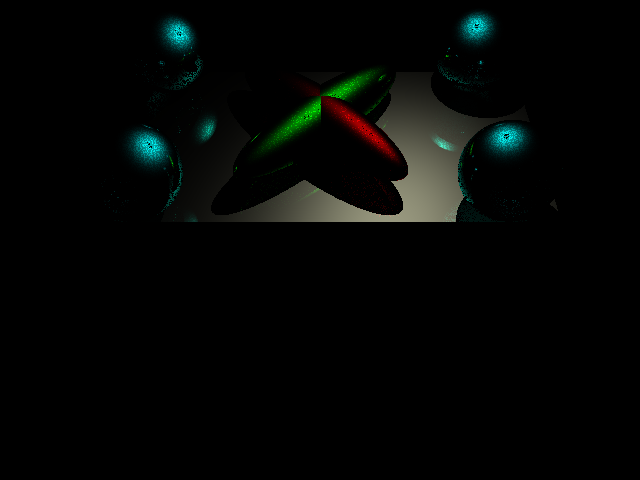
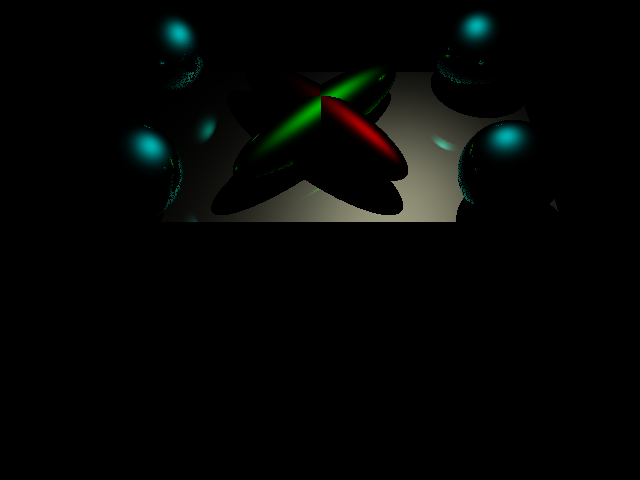
still speccing

diff --git a/main.cpp b/main.cpp
@@ -50,7 +50,7 @@ void init()
 {
     WIDTH = 0;
     HEIGHT = 0;
-    DEPTH = 5;
+    DEPTH = 2;
 
     OBJS = new obj *[MAX_OBJS];
     LIGHTS = new light *[MAX_LIGHTS];
@@ -97,7 +97,7 @@ bool intersecting(ray &r, obj *&hit_obj, vec3 *hit_point)
 
 vec3 trace(ray &r, int depth)
 {
-    if (depth > DEPTH)
+    if (depth >= DEPTH)
     {
         return vec3(0, 0, 0); // black pixel
     }
@@ -135,10 +135,16 @@ vec3 trace(ray &r, int depth)
         }
     }
 
-    vec3 i_n = normalize(hit_obj->interpolateNormal(hit_point));
+    // if (hit_obj->mat.specular.x != 0 &&
+    //     hit_obj->mat.specular.y != 0 &&
+    //     hit_obj->mat.specular.z != 0)
+    // {
+
+    vec3 i_n = glm::normalize(hit_obj->interpolateNormal(hit_point));
     ray r_r = r.reflect(hit_point, i_n);
     vec3 r_col = trace(r_r, depth + 1);
     c = c + hit_obj->mat.specular * r_col;
+    // }
 
     return c;
 }

diff --git a/variables.h b/variables.h
@@ -12,7 +12,7 @@ using namespace glm;
 
 #ifndef VARIABLES_FILE_H
 #define VARIABLES_FILE_H
-#define PI 3.1415926535897931159979634685442
+#define PI 3.14159
 #define EPS std::numeric_limits<float>::epsilon()
 
 // SCENE
@@ -24,8 +24,8 @@ vec3 CAMLOOKFROM, CAMLOOKAT, CAMUP;
 float FOVY;
 
 // MATERIAL
-vec3 EMISSION;
-vec3 DIFFUSE;
+vec3 EMISSION = vec3(0, 0, 0);
+vec3 DIFFUSE = vec3(0, 0, 0);
 vec3 SPECULAR = vec3(0, 0, 0);
 vec3 AMBIENT = vec3(.2, .2, .2);
 float SHINY = 0;
@@ -75,8 +75,7 @@ public:
 
     ray reflect(vec3 &h, vec3 &n)
     {
-        vec3 p = normalize(d - (n * (2 * dot(d, n))));
-        return ray(h, p);
+        return ray(h + (n * EPS), d - 2 * glm::dot(n, d) * n);
     }
 };
 
